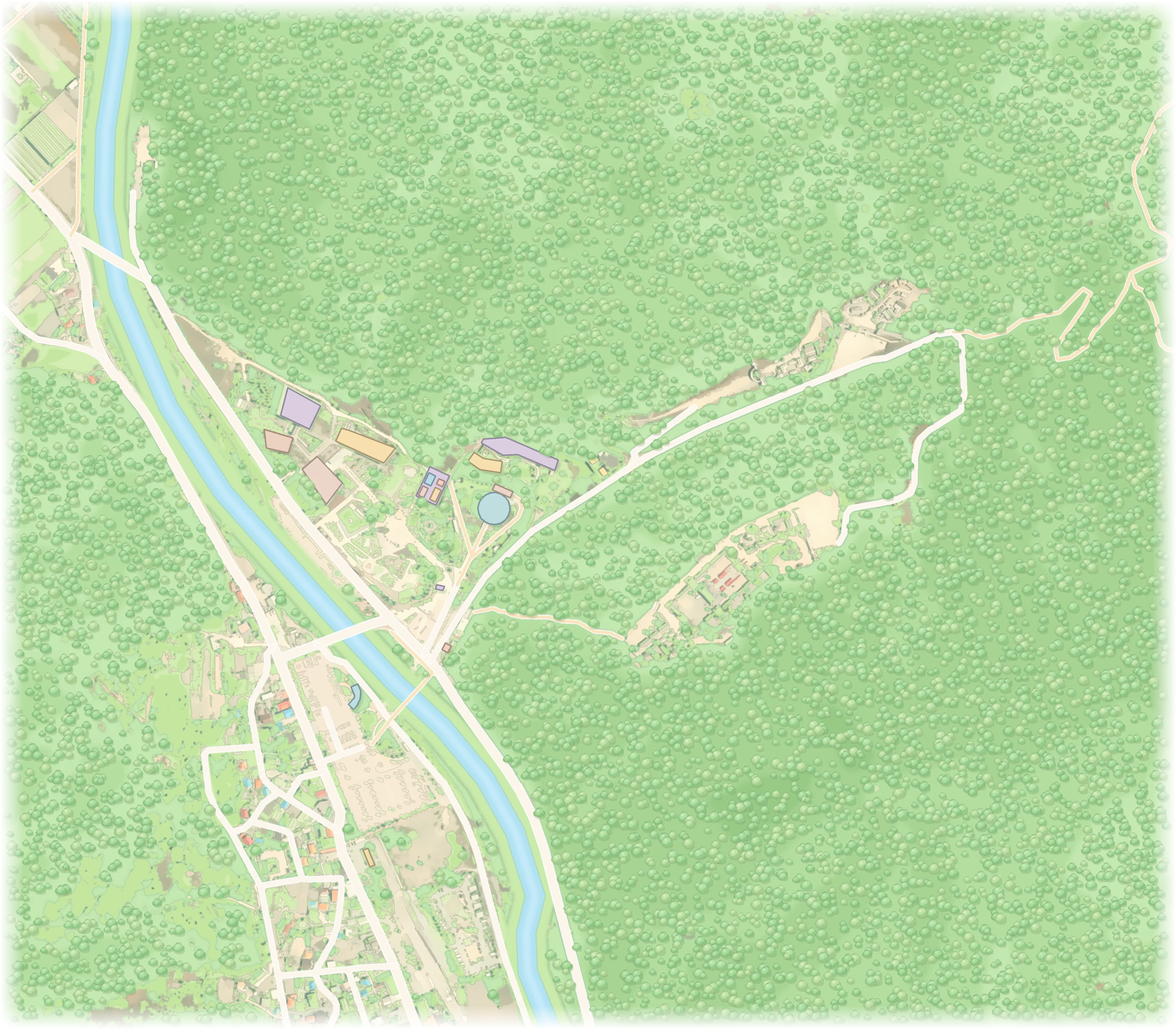
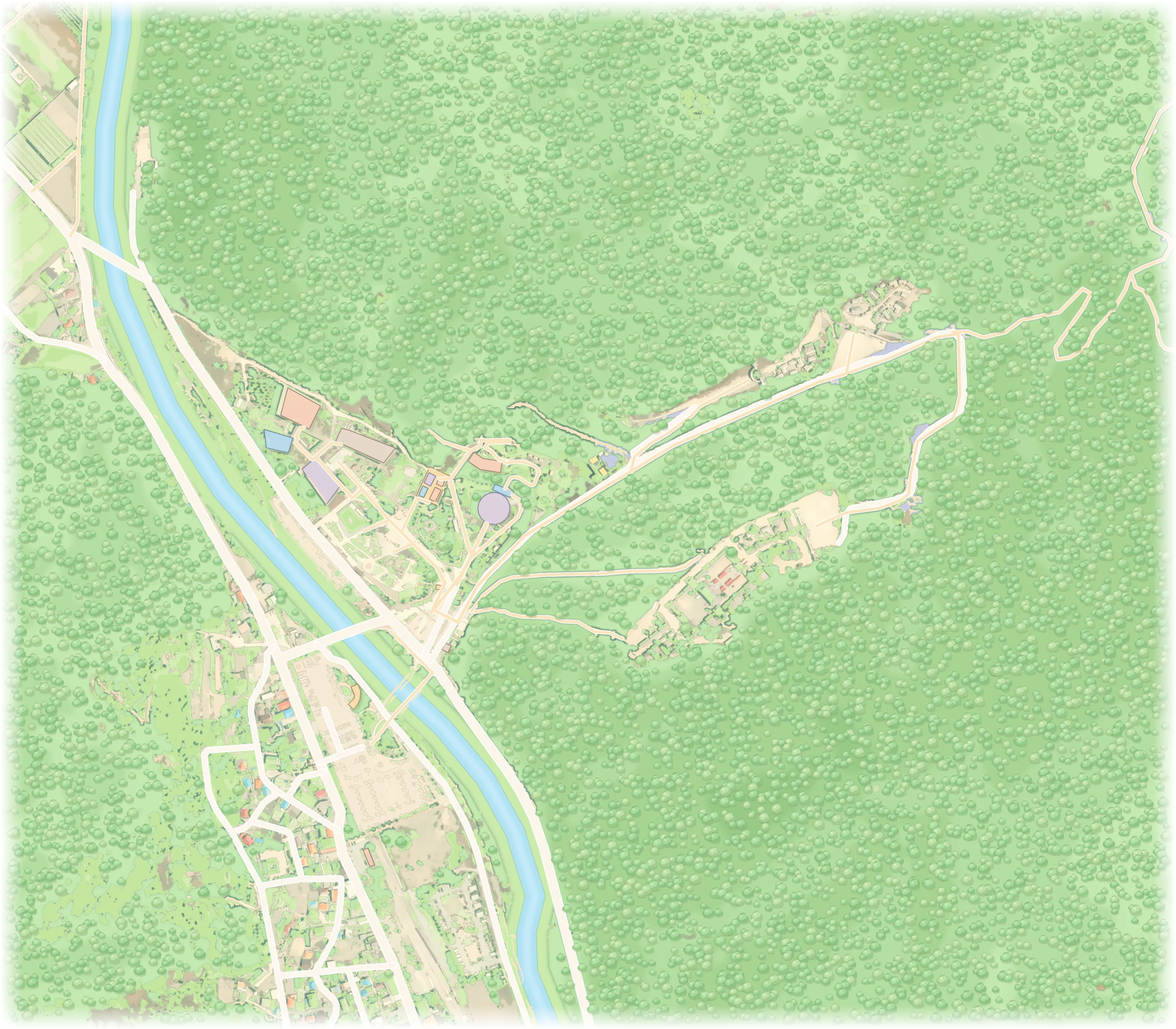
finder-demo: 사라진 산책로 복원, 3D 모델 파스텔화, 확대 선명도 개선
- 참고 동선 17개와 숲 속 샛길을 그림에 추가, 길을 덮던 OSM 윤곽 제거
- 3D 모델 색을 파스텔로, 세트장 지붕을 파스텔 기와로
- 공원 중심부 고해상도 그림을 줌 16.5 이상에서 표시

diff --git a/finder-demo/data/park.js b/finder-demo/data/park.js
@@ -1,1 +1,1 @@
-window.ECO_PARK={"type":"FeatureCollection","features":[{"type":"Feature","properties":{"kind":"building","id":"osm-w561140229-building","name":"탄광촌전시관","model":true,"height":7},"geometry":{"type":"Polygon","coordinates":[[[128.0612892,36.6543622],[128.0610974,36.654033],[128.0613731,36.6539296],[128.0615649,36.6542588],[128.0612892,36.6543622]]]}},{"type":"Feature","properties":{"kind":"building","id":"osm-w561140230-building","name":"미명명 건물 (OSM)","model":true,"height":7},"geometry":{"type":"Polygon","coordinates":[[[128.0612794,36.6542927],[128.0612087,36.6541808],[128.0613003,36.6541436],[128.061371,36.6542555],[128.0612794,36.6542927]]]}},{"type":"Feature","properties":{"kind":"building","id":"osm-w561140231-building","name":"미명명 건물 (OSM)","model":true,"height":7},"geometry":{"type":"Polygon","coordinates":[[[128.061192,36.6541447],[128.0611299,36.6540411],[128.0612026,36.6540131],[128.0612647,36.6541166],[128.061192,36.6541447]]]}},{"type":"Feature","properties":{"kind":"building","id":"osm-w561140232-building","name":"미명명 건물 (OSM)","model":true,"height":7},"geometry":{"type":"Polygon","coordinates":[[[128.0614166,36.6542269],[128.0613814,36.6541669],[128.0614638,36.6541358],[128.061499,36.6541958],[128.0614166,36.6542269]]]}},{"type":"Feature","properties":{"kind":"building","id":"osm-w561140233-building","name":"미명명 건물 (OSM)","model":true,"height":7},"geometry":{"type":"Polygon","coordinates":[[[128.0613647,36.6541294],[128.0612846,36.6539959],[128.0613678,36.6539638],[128.0614479,36.6540973],[128.0613647,36.6541294]]]}},{"type":"Feature","properties":{"kind":"building","id":"osm-w561140235-building","name":"문경석탄박물관 매표소","model":false,"height":7},"geometry":{"type":"Polygon","coordinates":[[[128.0613823,36.6530342],[128.0613696,36.6529861],[128.0614663,36.6529698],[128.0614946,36.6530153],[128.0613823,36.6530342]]]}},{"type":"Feature","properties":{"kind":"building","id":"osm-w561140238-building","name":"문경석탄박물관","model":true,"height":7},"geometry":{"type":"Polygon","coordinates":[[[128.0621433,36.6540683],[128.0620728,36.6540466],[128.0620151,36.6540075],[128.0619768,36.6539552],[128.0619623,36.6538957],[128.0619731,36.6538358],[128.062008,36.653782],[128.0620632,36.6537406],[128.0621323,36.6537161],[128.0622076,36.6537114],[128.0622806,36.6537269],[128.0623409,36.6537593],[128.0623852,36.6538052],[128.062409,36.6538602],[128.0624098,36.6539183],[128.0623875,36.6539736],[128.0623445,36.6540204],[128.0622852,36.6540538],[128.0622157,36.6540703],[128.0621433,36.6540683]]]}},{"type":"Feature","properties":{"kind":"building","id":"osm-w561140239-building","name":"미명명 건물 (OSM)","model":false,"height":7},"geometry":{"type":"Polygon","coordinates":[[[128.062204,36.6541668],[128.0624528,36.6540799],[128.0624169,36.6540137],[128.062168,36.6541006],[128.062204,36.6541668]]]}},{"type":"Feature","properties":{"kind":"building","id":"osm-w561140241-building","name":"미명명 건물 (OSM)","model":false,"height":7},"geometry":{"type":"Polygon","coordinates":[[[128.0649545,36.6533593],[128.0650168,36.6533069],[128.0651198,36.6533859],[128.0650575,36.6534382],[128.0649545,36.6533593]]]}},{"type":"Feature","properties":{"kind":"building","id":"osm-w561140244-building","name":"화장실 (OSM)","model":false,"height":7},"geometry":{"type":"Polygon","coordinates":[[[128.0615065,36.6523793],[128.0614587,36.6523048],[128.0615411,36.6522708],[128.0615889,36.6523453],[128.0615065,36.6523793]]]}},{"type":"Feature","properties":{"kind":"path","id":"osm-w561140245-path","name":"보행로 (OSM)"},"geometry":{"type":"LineString","coordinates":[[128.0620746,36.6537262],[128.0618733,36.6533688],[128.0618491,36.6533258],[128.0616677,36.6530285]]}},{"type":"Feature","properties":{"kind":"path","id":"osm-w561140246-path","name":"보행로 (OSM)"},"geometry":{"type":"LineString","coordinates":[[128.0618733,36.6533688],[128.0615656,36.654187]]}},{"type":"Feature","properties":{"kind":"path","id":"osm-w561140247-path","name":"보행로 (OSM)"},"geometry":{"type":"LineString","coordinates":[[128.0618491,36.6533258],[128.0625276,36.6537936],[128.0625837,36.6539023],[128.0625463,36.6539885],[128.0624436,36.6540409]]}},{"type":"Feature","properties":{"kind":"plaza","id":"osm-w561140250-plaza","name":"주차장 (OSM)"},"geometry":{"type":"Polygon","coordinates":[[[128.061412,36.6528722],[128.061536,36.6528184],[128.0612457,36.6523872],[128.0611216,36.6524409],[128.061412,36.6528722]]]}},{"type":"Feature","properties":{"kind":"plaza","id":"osm-w561140251-plaza","name":"주차장 (OSM)"},"geometry":{"type":"Polygon","coordinates":[[[128.0611636,36.6527397],[128.061245,36.6527681],[128.0610964,36.6524841],[128.0611212,36.6523791],[128.060923,36.6525665],[128.0611636,36.6527397]]]}},{"type":"Feature","properties":{"kind":"plaza","id":"osm-w561140252-plaza","name":"주차장 (OSM)"},"geometry":{"type":"Polygon","coordinates":[[[128.0615801,36.6527639],[128.0616846,36.6527171],[128.0613981,36.6523057],[128.0612936,36.6523525],[128.0615801,36.6527639]]]}},{"type":"Feature","properties":{"kind":"building","id":"osm-w561140253-building","name":"미명명 건물 (OSM)","model":false,"height":7},"geometry":{"type":"Polygon","coordinates":[[[128.0623033,36.6544199],[128.0622784,36.6542934],[128.0619923,36.6543297],[128.0618218,36.654423],[128.0619079,36.6545243],[128.062037,36.6544537],[128.0623033,36.6544199]]]}},{"type":"Feature","properties":{"kind":"building","id":"osm-w561140254-building","name":"미명명 건물 (OSM)","model":false,"height":7},"geometry":{"type":"Polygon","coordinates":[[[128.062037,36.6546722],[128.0620086,36.6546298],[128.0623135,36.6544896],[128.0625208,36.6544961],[128.0630412,36.65432],[128.06309,36.6544341],[128.0623541,36.6546918],[128.062037,36.6546722]]]}},{"type":"Feature","properties":{"kind":"building","id":"osm-w561140258-building","name":"요동성 세트장","model":true,"height":7},"geometry":{"type":"Polygon","coordinates":[[[128.0636806,36.6549984],[128.0640728,36.6549984],[128.0643811,36.6549835],[128.0654271,36.6553806],[128.065754,36.6556204],[128.0659408,36.6556653],[128.0661276,36.6556428],[128.0664078,36.6558152],[128.0667161,36.6562048],[128.0668562,36.6558526],[128.0667908,36.6555379],[128.0666227,36.655418],[128.0662677,36.6553206],[128.0659502,36.6552307],[128.0650255,36.6549535],[128.064241,36.6547212],[128.0637366,36.6548336],[128.0636806,36.6549984]]]}},{"type":"Feature","properties":{"kind":"plaza","id":"osm-w561140262-plaza","name":"주차장 (OSM)"},"geometry":{"type":"Polygon","coordinates":[[[128.059365,36.6521576],[128.059751,36.6522749],[128.0599236,36.6521009],[128.0601288,36.6516866],[128.0603555,36.6512961],[128.0603809,36.6512703],[128.0604748,36.6512918],[128.0605111,36.6512229],[128.0605902,36.6511002],[128.0606773,36.6510637],[128.0608128,36.6510443],[128.0610166,36.6510852],[128.0613787,36.6505956],[128.0603139,36.6502535],[128.059365,36.6521576]]]}},{"type":"Feature","properties":{"kind":"building","id":"osm-w561140268-building","name":"화장실 (OSM)","model":false,"height":7},"geometry":{"type":"Polygon","coordinates":[[[128.06028,36.6519189],[128.0601837,36.6518863],[128.0602318,36.6517945],[128.0602318,36.6517618],[128.0601471,36.6516892],[128.0602194,36.6516349],[128.0602495,36.6516576],[128.0602684,36.651677],[128.0603132,36.6517488],[128.0603213,36.6518401],[128.06028,36.6519189]]]}},{"type":"Feature","properties":{"kind":"path","id":"osm-w561140271-path","name":"보행로 (OSM)"},"geometry":{"type":"LineString","coordinates":[[128.0612261,36.6519492],[128.0607902,36.6515684]]}},{"type":"Feature","properties":{"kind":"path","id":"osm-w561140273-path","name":"보행로 (OSM)"},"geometry":{"type":"LineString","coordinates":[[128.0612261,36.6519492],[128.0613259,36.6520429],[128.061169,36.652172],[128.0607426,36.6525077]]}},{"type":"Feature","properties":{"kind":"path","id":"osm-w561140275-path","name":"보행로 (OSM)"},"geometry":{"type":"LineString","coordinates":[[128.060477,36.6512445],[128.0606393,36.6514092]]}},{"type":"Feature","properties":{"kind":"path","id":"osm-w561140276-path","name":"보행로 (OSM)"},"geometry":{"type":"LineString","coordinates":[[128.0606393,36.6514092],[128.0607289,36.6515084],[128.0607902,36.6515684]]}},{"type":"Feature","properties":{"kind":"building","id":"osm-w1545943901-building","name":"미명명 건물 (OSM)","model":true,"height":7},"geometry":{"type":"Polygon","coordinates":[[[128.0597091,36.6544765],[128.0600618,36.6541774],[128.0598392,36.6539396],[128.0594985,36.6543323],[128.0597091,36.6544765]]]}},{"type":"Feature","properties":{"kind":"building","id":"osm-w1545943902-building","name":"미명명 건물 (OSM)","model":true,"height":7},"geometry":{"type":"Polygon","coordinates":[[[128.0589688,36.6547799],[128.0593698,36.6546841],[128.0593054,36.6545174],[128.0589969,36.6545723],[128.0589688,36.6547799]]]}},{"type":"Feature","properties":{"kind":"building","id":"osm-w1545943903-building","name":"미명명 건물 (OSM)","model":true,"height":7},"geometry":{"type":"Polygon","coordinates":[[[128.0600524,36.6547928],[128.060165,36.6547691],[128.0608061,36.6545712],[128.0606425,36.6544033],[128.0599692,36.6546486],[128.0600524,36.6547928]]]}},{"type":"Feature","properties":{"kind":"building","id":"osm-w1545943904-building","name":"미명명 건물 (OSM)","model":true,"height":7},"geometry":{"type":"Polygon","coordinates":[[[128.0592987,36.655249],[128.0597573,36.6550446],[128.0595991,36.6547842],[128.0591994,36.6549391],[128.0592987,36.655249]]]}},{"type":"Feature","properties":{"kind":"plaza","id":"osm-w1545943905-plaza","name":"주차장 (OSM)"},"geometry":{"type":"Polygon","coordinates":[[[128.0591565,36.6540375],[128.0590546,36.6539719],[128.0592035,36.6537062],[128.0593751,36.6535179],[128.0600055,36.6529487],[128.0601114,36.652868],[128.0601798,36.6528476],[128.060334,36.6529627],[128.0596554,36.6535469],[128.059524,36.6536577],[128.0591981,36.6540278],[128.0591565,36.6540375]]]}}]};
+window.ECO_PARK={"type":"FeatureCollection","features":[{"type":"Feature","properties":{"kind":"building","id":"osm-w561140229-building","name":"탄광촌전시관","model":true,"height":7},"geometry":{"type":"Polygon","coordinates":[[[128.0612892,36.6543622],[128.0610974,36.654033],[128.0613731,36.6539296],[128.0615649,36.6542588],[128.0612892,36.6543622]]]}},{"type":"Feature","properties":{"kind":"building","id":"osm-w561140230-building","name":"미명명 건물 (OSM)","model":true,"height":7},"geometry":{"type":"Polygon","coordinates":[[[128.0612794,36.6542927],[128.0612087,36.6541808],[128.0613003,36.6541436],[128.061371,36.6542555],[128.0612794,36.6542927]]]}},{"type":"Feature","properties":{"kind":"building","id":"osm-w561140231-building","name":"미명명 건물 (OSM)","model":true,"height":7},"geometry":{"type":"Polygon","coordinates":[[[128.061192,36.6541447],[128.0611299,36.6540411],[128.0612026,36.6540131],[128.0612647,36.6541166],[128.061192,36.6541447]]]}},{"type":"Feature","properties":{"kind":"building","id":"osm-w561140232-building","name":"미명명 건물 (OSM)","model":true,"height":7},"geometry":{"type":"Polygon","coordinates":[[[128.0614166,36.6542269],[128.0613814,36.6541669],[128.0614638,36.6541358],[128.061499,36.6541958],[128.0614166,36.6542269]]]}},{"type":"Feature","properties":{"kind":"building","id":"osm-w561140233-building","name":"미명명 건물 (OSM)","model":true,"height":7},"geometry":{"type":"Polygon","coordinates":[[[128.0613647,36.6541294],[128.0612846,36.6539959],[128.0613678,36.6539638],[128.0614479,36.6540973],[128.0613647,36.6541294]]]}},{"type":"Feature","properties":{"kind":"building","id":"osm-w561140235-building","name":"문경석탄박물관 매표소","model":false,"height":7},"geometry":{"type":"Polygon","coordinates":[[[128.0613823,36.6530342],[128.0613696,36.6529861],[128.0614663,36.6529698],[128.0614946,36.6530153],[128.0613823,36.6530342]]]}},{"type":"Feature","properties":{"kind":"building","id":"osm-w561140238-building","name":"문경석탄박물관","model":true,"height":7},"geometry":{"type":"Polygon","coordinates":[[[128.0621433,36.6540683],[128.0620728,36.6540466],[128.0620151,36.6540075],[128.0619768,36.6539552],[128.0619623,36.6538957],[128.0619731,36.6538358],[128.062008,36.653782],[128.0620632,36.6537406],[128.0621323,36.6537161],[128.0622076,36.6537114],[128.0622806,36.6537269],[128.0623409,36.6537593],[128.0623852,36.6538052],[128.062409,36.6538602],[128.0624098,36.6539183],[128.0623875,36.6539736],[128.0623445,36.6540204],[128.0622852,36.6540538],[128.0622157,36.6540703],[128.0621433,36.6540683]]]}},{"type":"Feature","properties":{"kind":"building","id":"osm-w561140239-building","name":"미명명 건물 (OSM)","model":false,"height":7},"geometry":{"type":"Polygon","coordinates":[[[128.062204,36.6541668],[128.0624528,36.6540799],[128.0624169,36.6540137],[128.062168,36.6541006],[128.062204,36.6541668]]]}},{"type":"Feature","properties":{"kind":"building","id":"osm-w561140241-building","name":"미명명 건물 (OSM)","model":false,"height":7},"geometry":{"type":"Polygon","coordinates":[[[128.0649545,36.6533593],[128.0650168,36.6533069],[128.0651198,36.6533859],[128.0650575,36.6534382],[128.0649545,36.6533593]]]}},{"type":"Feature","properties":{"kind":"building","id":"osm-w561140244-building","name":"화장실 (OSM)","model":false,"height":7},"geometry":{"type":"Polygon","coordinates":[[[128.0615065,36.6523793],[128.0614587,36.6523048],[128.0615411,36.6522708],[128.0615889,36.6523453],[128.0615065,36.6523793]]]}},{"type":"Feature","properties":{"kind":"path","id":"osm-w561140245-path","name":"보행로 (OSM)"},"geometry":{"type":"LineString","coordinates":[[128.0620746,36.6537262],[128.0618733,36.6533688],[128.0618491,36.6533258],[128.0616677,36.6530285]]}},{"type":"Feature","properties":{"kind":"path","id":"osm-w561140246-path","name":"보행로 (OSM)"},"geometry":{"type":"LineString","coordinates":[[128.0618733,36.6533688],[128.0615656,36.654187]]}},{"type":"Feature","properties":{"kind":"path","id":"osm-w561140247-path","name":"보행로 (OSM)"},"geometry":{"type":"LineString","coordinates":[[128.0618491,36.6533258],[128.0625276,36.6537936],[128.0625837,36.6539023],[128.0625463,36.6539885],[128.0624436,36.6540409]]}},{"type":"Feature","properties":{"kind":"plaza","id":"osm-w561140250-plaza","name":"주차장 (OSM)"},"geometry":{"type":"Polygon","coordinates":[[[128.061412,36.6528722],[128.061536,36.6528184],[128.0612457,36.6523872],[128.0611216,36.6524409],[128.061412,36.6528722]]]}},{"type":"Feature","properties":{"kind":"plaza","id":"osm-w561140251-plaza","name":"주차장 (OSM)"},"geometry":{"type":"Polygon","coordinates":[[[128.0611636,36.6527397],[128.061245,36.6527681],[128.0610964,36.6524841],[128.0611212,36.6523791],[128.060923,36.6525665],[128.0611636,36.6527397]]]}},{"type":"Feature","properties":{"kind":"plaza","id":"osm-w561140252-plaza","name":"주차장 (OSM)"},"geometry":{"type":"Polygon","coordinates":[[[128.0615801,36.6527639],[128.0616846,36.6527171],[128.0613981,36.6523057],[128.0612936,36.6523525],[128.0615801,36.6527639]]]}},{"type":"Feature","properties":{"kind":"building","id":"osm-w561140253-building","name":"미명명 건물 (OSM)","model":false,"height":7},"geometry":{"type":"Polygon","coordinates":[[[128.0623033,36.6544199],[128.0622784,36.6542934],[128.0619923,36.6543297],[128.0618218,36.654423],[128.0619079,36.6545243],[128.062037,36.6544537],[128.0623033,36.6544199]]]}},{"type":"Feature","properties":{"kind":"building","id":"osm-w561140258-building","name":"요동성 세트장","model":true,"height":7},"geometry":{"type":"Polygon","coordinates":[[[128.0636806,36.6549984],[128.0640728,36.6549984],[128.0643811,36.6549835],[128.0654271,36.6553806],[128.065754,36.6556204],[128.0659408,36.6556653],[128.0661276,36.6556428],[128.0664078,36.6558152],[128.0667161,36.6562048],[128.0668562,36.6558526],[128.0667908,36.6555379],[128.0666227,36.655418],[128.0662677,36.6553206],[128.0659502,36.6552307],[128.0650255,36.6549535],[128.064241,36.6547212],[128.0637366,36.6548336],[128.0636806,36.6549984]]]}},{"type":"Feature","properties":{"kind":"plaza","id":"osm-w561140262-plaza","name":"주차장 (OSM)"},"geometry":{"type":"Polygon","coordinates":[[[128.059365,36.6521576],[128.059751,36.6522749],[128.0599236,36.6521009],[128.0601288,36.6516866],[128.0603555,36.6512961],[128.0603809,36.6512703],[128.0604748,36.6512918],[128.0605111,36.6512229],[128.0605902,36.6511002],[128.0606773,36.6510637],[128.0608128,36.6510443],[128.0610166,36.6510852],[128.0613787,36.6505956],[128.0603139,36.6502535],[128.059365,36.6521576]]]}},{"type":"Feature","properties":{"kind":"building","id":"osm-w561140268-building","name":"화장실 (OSM)","model":false,"height":7},"geometry":{"type":"Polygon","coordinates":[[[128.06028,36.6519189],[128.0601837,36.6518863],[128.0602318,36.6517945],[128.0602318,36.6517618],[128.0601471,36.6516892],[128.0602194,36.6516349],[128.0602495,36.6516576],[128.0602684,36.651677],[128.0603132,36.6517488],[128.0603213,36.6518401],[128.06028,36.6519189]]]}},{"type":"Feature","properties":{"kind":"path","id":"osm-w561140271-path","name":"보행로 (OSM)"},"geometry":{"type":"LineString","coordinates":[[128.0612261,36.6519492],[128.0607902,36.6515684]]}},{"type":"Feature","properties":{"kind":"path","id":"osm-w561140273-path","name":"보행로 (OSM)"},"geometry":{"type":"LineString","coordinates":[[128.0612261,36.6519492],[128.0613259,36.6520429],[128.061169,36.652172],[128.0607426,36.6525077]]}},{"type":"Feature","properties":{"kind":"path","id":"osm-w561140275-path","name":"보행로 (OSM)"},"geometry":{"type":"LineString","coordinates":[[128.060477,36.6512445],[128.0606393,36.6514092]]}},{"type":"Feature","properties":{"kind":"path","id":"osm-w561140276-path","name":"보행로 (OSM)"},"geometry":{"type":"LineString","coordinates":[[128.0606393,36.6514092],[128.0607289,36.6515084],[128.0607902,36.6515684]]}},{"type":"Feature","properties":{"kind":"building","id":"osm-w1545943901-building","name":"미명명 건물 (OSM)","model":true,"height":7},"geometry":{"type":"Polygon","coordinates":[[[128.0597091,36.6544765],[128.0600618,36.6541774],[128.0598392,36.6539396],[128.0594985,36.6543323],[128.0597091,36.6544765]]]}},{"type":"Feature","properties":{"kind":"building","id":"osm-w1545943902-building","name":"미명명 건물 (OSM)","model":true,"height":7},"geometry":{"type":"Polygon","coordinates":[[[128.0589688,36.6547799],[128.0593698,36.6546841],[128.0593054,36.6545174],[128.0589969,36.6545723],[128.0589688,36.6547799]]]}},{"type":"Feature","properties":{"kind":"building","id":"osm-w1545943903-building","name":"미명명 건물 (OSM)","model":true,"height":7},"geometry":{"type":"Polygon","coordinates":[[[128.0600524,36.6547928],[128.060165,36.6547691],[128.0608061,36.6545712],[128.0606425,36.6544033],[128.0599692,36.6546486],[128.0600524,36.6547928]]]}},{"type":"Feature","properties":{"kind":"building","id":"osm-w1545943904-building","name":"미명명 건물 (OSM)","model":true,"height":7},"geometry":{"type":"Polygon","coordinates":[[[128.0592987,36.655249],[128.0597573,36.6550446],[128.0595991,36.6547842],[128.0591994,36.6549391],[128.0592987,36.655249]]]}},{"type":"Feature","properties":{"kind":"plaza","id":"osm-w1545943905-plaza","name":"주차장 (OSM)"},"geometry":{"type":"Polygon","coordinates":[[[128.0591565,36.6540375],[128.0590546,36.6539719],[128.0592035,36.6537062],[128.0593751,36.6535179],[128.0600055,36.6529487],[128.0601114,36.652868],[128.0601798,36.6528476],[128.060334,36.6529627],[128.0596554,36.6535469],[128.059524,36.6536577],[128.0591981,36.6540278],[128.0591565,36.6540375]]]}},{"type":"Feature","properties":{"kind":"reference","id":"user-kml-c5a48638017d","name":"정문에서 석탄박물관까지 경로"},"geometry":{"type":"LineString","coordinates":[[128.0613069975602,36.65271200054841],[128.0617437349931,36.65315838166777],[128.0620939540503,36.65371644553639]]}},{"type":"Feature","properties":{"kind":"reference","id":"user-kml-ad5d99c331d6","name":"정문에서 자이언트포레스트까지 경로"},"geometry":{"type":"LineString","coordinates":[[128.0613097045317,36.65271631770625],[128.0615036390608,36.65305321983555],[128.0613903260595,36.65322408383953],[128.0610555820342,36.6534946486095],[128.0607880049759,36.65340530041028]]}},{"type":"Feature","properties":{"kind":"reference","id":"user-kml-cd5e12f02b27","name":"정문에서 가은모노레일까지 경로"},"geometry":{"type":"LineString","coordinates":[[128.0613053650932,36.65271290566636],[128.0613391418609,36.65274838307553],[128.0617004328103,36.65260515086588]]}},{"type":"Feature","properties":{"kind":"reference","id":"user-kml-8fec4d8aad57","name":"정문에서 물놀이장까지 경로"},"geometry":{"type":"LineString","coordinates":[[128.0613053356307,36.65271343067711],[128.0615064796385,36.6530533280139],[128.0613928253266,36.65322289202869],[128.0607196931964,36.65376389110645],[128.0603619060369,36.65363405457296]]}},{"type":"Feature","properties":{"kind":"reference","id":"user-kml-480041a48fda","name":"정문에서부터 꼬마열차까지 경로"},"geometry":{"type":"LineString","coordinates":[[128.0613061373457,36.65271561860902],[128.0617417392131,36.65315833968197],[128.0618825175052,36.65338159029326],[128.0618335700105,36.65343251984909],[128.0617014679784,36.6538680362846]]}},{"type":"Feature","properties":{"kind":"reference","id":"user-kml-e88fcdbdeea8","name":"정문에서 에코타운 정문까지 경로"},"geometry":{"type":"LineString","coordinates":[[128.0613075572736,36.65271501035764],[128.0614983940029,36.65304848706475],[128.0613940040614,36.6532166732535],[128.0607309599272,36.65375281083887],[128.0600041051205,36.65441895158046]]}},{"type":"Feature","properties":{"kind":"reference","id":"user-kml-78b229d54c04","name":"정문에서 탄광사택촌까지 경로"},"geometry":{"type":"LineString","coordinates":[[128.0613073036247,36.65271601255684],[128.0615024237725,36.6530559953496],[128.0613933526841,36.65321929552861],[128.0608918742452,36.65362566822176],[128.0611104335096,36.65400339529846],[128.0612723313493,36.6539584608669]]}},{"type":"Feature","properties":{"kind":"reference","id":"user-kml-f3c2e03675ac","name":"정문에서 은성갱도까지 경로"},"geometry":{"type":"LineString","coordinates":[[128.0613063940121,36.65271401804888],[128.0617375087997,36.65315658690736],[128.0618838680246,36.65338107401141],[128.0618331638012,36.65343553965133],[128.0615821418209,36.65422440080437],[128.0618587503187,36.65453977185391],[128.0619998467537,36.65458903961572],[128.0620039414326,36.65466022335332]]}},{"type":"Feature","properties":{"kind":"reference","id":"user-kml-2e848bb595be","name":"석탄박물관 2층 후문에서 거미열차까지 경로"},"geometry":{"type":"LineString","coordinates":[[128.0623434142403,36.65411725829457],[128.0624130572717,36.6542265438515],[128.0624739901415,36.6542460800266],[128.0625468073159,36.6542322374115],[128.0626718200835,36.65415935649668],[128.0627246053059,36.65414874013646],[128.0627540167492,36.65416463521242],[128.0628123144837,36.65428073969261],[128.0628043092576,36.65433024199809],[128.0627759110113,36.65435857646412],[128.0626476421615,36.65440334589657],[128.0625696451309,36.65441795509413],[128.0624936422155,36.65441886483607],[128.0623658561906,36.65439902010837]]}},{"type":"Feature","properties":{"kind":"reference","id":"user-kml-0342967e47b4","name":"거미열차에서 은성갱도까지 경로"},"geometry":{"type":"LineString","coordinates":[[128.0623370967459,36.65441832886382],[128.0622568756618,36.65444094274741],[128.0621660208894,36.65452582580897],[128.0620622639964,36.65457924787651],[128.0621076608141,36.65463256458022],[128.062398469627,36.65463788633738],[128.062401529399,36.6546602320247],[128.0620104013695,36.65465700292918]]}},{"type":"Feature","properties":{"kind":"reference","id":"user-kml-25b262944a34","name":"정문에서 서바이벌체험장까지 경로"},"geometry":{"type":"LineString","coordinates":[[128.0613059421975,36.65271382908406],[128.0615022899995,36.65305573123813],[128.0613937386835,36.65321514109914],[128.0607165568087,36.65376526532217],[128.0603366347188,36.65410567455422],[128.0602010620984,36.65400575141843],[128.0596916452103,36.65446926946388],[128.0599178378423,36.65462898762055],[128.0600478494415,36.65461036887372]]}},{"type":"Feature","properties":{"kind":"reference","id":"user-kml-295d9bc8671e","name":"정문에서 에코카페 입구까지 경로"},"geometry":{"type":"LineString","coordinates":[[128.0613081566132,36.65271435388266],[128.061507529879,36.65305389545892],[128.0613967970921,36.65322267063234],[128.0607189144313,36.65376289765712],[128.0603393586052,36.65410687693671],[128.0602042371331,36.65400751943232],[128.0596942443318,36.65446621269537],[128.0596431582336,36.65444173933095],[128.0594063824311,36.65462690109451],[128.0594363971674,36.65468937865485],[128.0594176605438,36.65470228190476],[128.0594747168214,36.65479636687067],[128.0595266882995,36.65479827001971]]}},{"type":"Feature","properties":{"kind":"reference","id":"user-kml-41c17b9f1336","name":"정문에서 1세트장까지 탐방로 경로"},"geometry":{"type":"LineString","coordinates":[[128.0613103855893,36.65271699668666],[128.0613434825179,36.65274892680675],[128.0616862590642,36.6526148008864],[128.0619596571384,36.65302265129809],[128.0626187010125,36.65358405265223],[128.0647041702292,36.65459929271925],[128.0667246026764,36.65530802233236],[128.0670462023716,36.65538501615524],[128.0677281296096,36.65558060855586],[128.0684080105227,36.65581880883393],[128.0686962374131,36.65585442886015],[128.068717467127,36.65516506296649],[128.0686718802485,36.65500752647627],[128.0686218976618,36.65491196222984],[128.0681246401977,36.65464616765659],[128.0680321475877,36.65428908942335],[128.067999303052,36.65405477104764],[128.0678932795151,36.65398665576718],[128.0675941128939,36.65389472265549],[128.0671113999795,36.65384067667507],[128.0667145204622,36.65369596354896]]}},{"type":"Feature","properties":{"kind":"reference","id":"user-kml-8f86f5cf34bf","name":"은성갱도 출구에서 탄광사택촌까지 경로"},"geometry":{"type":"LineString","coordinates":[[128.0612702354487,36.65476628153346],[128.0614755230096,36.65464034211439],[128.0618613119356,36.65453823664198],[128.0615851553476,36.65422602460255],[128.0614232236401,36.65422577681056]]}},{"type":"Feature","properties":{"kind":"reference","id":"user-kml-39921fe027dc","name":"정문에서 2세트장까지 탐방로 경로 1"},"geometry":{"type":"LineString","coordinates":[[128.0613104377374,36.65271556860841],[128.0613435430332,36.65275068742272],[128.0616834638147,36.65261013506046],[128.0619580451399,36.65302584592438],[128.0626180743933,36.65358302575628],[128.064105244776,36.65430973158382],[128.0641600718295,36.65447441825026],[128.0643790629862,36.65462112872602],[128.0646189963719,36.65473172998109],[128.0649516792932,36.6549314563897],[128.0650752704407,36.65503898181483],[128.0657562266237,36.65533607761377]]}},{"type":"Feature","properties":{"kind":"reference","id":"user-kml-b26c559392bf","name":"모노레일 이동 경로"},"geometry":{"type":"LineString","coordinates":[[128.0618747475498,36.65273470913657],[128.0620367604397,36.65291713027229],[128.0622769556406,36.65307115159318],[128.0624417542049,36.65311620082189],[128.0628685102921,36.65314451818524],[128.0637085496602,36.65316000248519],[128.0640874826149,36.65318510513076],[128.0644377725749,36.65318979097109],[128.0647156625482,36.65319934496467],[128.0648642088659,36.65323078653236],[128.0650627504354,36.65334603444486]]}},{"type":"Feature","properties":{"kind":"reference","id":"user-kml-e3396fc0361e","name":"정문에서 2세트장까지 탐방로 경로 2"},"geometry":{"type":"LineString","coordinates":[[128.0613111700707,36.65271746404822],[128.0613411804829,36.65275127063325],[128.0616760554289,36.65261159774525],[128.0619604400347,36.6530190138426],[128.0626203528451,36.65358709075828],[128.0647044357791,36.65459914655245],[128.0667230565386,36.65530853676359],[128.0671286255956,36.6554071870307],[128.0672299946414,36.65584479707672]]}}]};

diff --git a/finder-demo/data/facilities.js b/finder-demo/data/facilities.js
@@ -1,1 +1,1 @@
-window.ECO_FACILITIES={"version":1,"source":"ecoworld-visitor-v7-3 (KML 원본 + 항공사진 정렬 보정, 현장 확인 필요)","generatedAt":"2026-11-01T06:41:38.763Z","center":[128.0618,36.6537],"categories":[{"id":"experience","label":"체험/탑승"},{"id":"exhibition","label":"전시/박물관"},{"id":"amenity","label":"편의시설/식당"},{"id":"safety","label":"안전/의무실"}],"facilities":[{"facilMappCd":"user-kml-36151912a2e8","name":"자이언트포레스트","category":"experience","tags":[],"icon":"info","description":"","lng":128.060757816,"lat":36.653114396,"photo":null,"status":"unknown","hours":"","waitMinutes":null,"checkedAt":null},{"facilMappCd":"user-kml-540fcca76639","name":"에코타운","category":"experience","tags":[],"icon":"info","description":"","lng":128.0597112322403,"lat":36.65461218337404,"photo":"photos/eco.jpg","status":"unknown","hours":"","waitMinutes":null,"checkedAt":null},{"facilMappCd":"user-kml-ada57d5b3aa8","name":"물놀이장","category":"experience","tags":[],"icon":"info","description":"","lng":128.060178459,"lat":36.65376425,"photo":null,"status":"unknown","hours":"","waitMinutes":null,"checkedAt":null},{"facilMappCd":"user-kml-798122eac9b9","name":"1세트장","category":"exhibition","tags":[],"icon":"info","description":"","lng":128.0651058036894,"lat":36.65332977540214,"photo":null,"status":"unknown","hours":"","waitMinutes":null,"checkedAt":null},{"facilMappCd":"user-kml-dec151519e6e","name":"꼬마열차","category":"experience","tags":[],"icon":"info","description":"","lng":128.0614409418579,"lat":36.65371839861816,"photo":null,"status":"unknown","hours":"","waitMinutes":null,"checkedAt":null},{"facilMappCd":"user-kml-d523453e98d2","name":"매표소","category":"amenity","tags":[],"icon":"info","description":"","lng":128.061339855,"lat":36.652666812,"photo":"photos/gate.jpg","status":"unknown","hours":"","waitMinutes":null,"checkedAt":null},{"facilMappCd":"user-kml-403a895ea92f","name":"가은모노레일","category":"experience","tags":[],"icon":"info","description":"","lng":128.0617512555226,"lat":36.65257312774869,"photo":null,"status":"unknown","hours":"","waitMinutes":null,"checkedAt":null},{"facilMappCd":"user-kml-d0fe5b8e8a77","name":"3세트장","category":"exhibition","tags":[],"icon":"info","description":"","lng":128.0663896754587,"lat":36.65550200289552,"photo":null,"status":"unknown","hours":"","waitMinutes":null,"checkedAt":null},{"facilMappCd":"user-kml-9cad01521fb8","name":"2세트장","category":"exhibition","tags":[],"icon":"info","description":"","lng":128.0675809920718,"lat":36.65611779266166,"photo":null,"status":"unknown","hours":"","waitMinutes":null,"checkedAt":null},{"facilMappCd":"user-kml-5d9f5429a19b","name":"거미열차","category":"experience","tags":[],"icon":"info","description":"","lng":128.0623648338047,"lat":36.65439432141314,"photo":null,"status":"unknown","hours":"","waitMinutes":null,"checkedAt":null},{"facilMappCd":"user-kml-51f5c900e686","name":"은성갱도 입구","category":"exhibition","tags":[],"icon":"info","description":"","lng":128.0620041880394,"lat":36.65465561334202,"photo":null,"status":"unknown","hours":"","waitMinutes":null,"checkedAt":null},{"facilMappCd":"user-kml-595aa6c82685","name":"문경석탄박물관","category":"exhibition","tags":[],"icon":"info","description":"","lng":128.0621942375294,"lat":36.65389074455849,"photo":"photos/museum.jpg","status":"unknown","hours":"","waitMinutes":null,"checkedAt":null},{"facilMappCd":"user-kml-fa6b8b565472","name":"에코타운 정문","category":"experience","tags":[],"icon":"info","description":"","lng":128.0599848864423,"lat":36.6544278797995,"photo":"photos/eco.jpg","status":"unknown","hours":"","waitMinutes":null,"checkedAt":null},{"facilMappCd":"user-kml-178f7c986a33","name":"에코카페 입구","category":"amenity","tags":["food"],"icon":"cafe","description":"","lng":128.0595224104233,"lat":36.65479706843798,"photo":null,"status":"unknown","hours":"","waitMinutes":null,"checkedAt":null},{"facilMappCd":"user-kml-098e71f832dd","name":"서바이벌체험장 입구","category":"experience","tags":[],"icon":"info","description":"","lng":128.0600450425438,"lat":36.65460585294915,"photo":null,"status":"unknown","hours":"","waitMinutes":null,"checkedAt":null},{"facilMappCd":"user-kml-1b5c60f82717","name":"탄광사택촌","category":"exhibition","tags":[],"icon":"info","description":"","lng":128.0613470629999,"lat":36.6540842541685,"photo":null,"status":"unknown","hours":"","waitMinutes":null,"checkedAt":null},{"facilMappCd":"user-kml-6e6cb1fed873","name":"수유실 · 석탄박물관","category":"amenity","tags":["nursing"],"icon":"nursing","description":"석탄박물관 로비 좌측에 위치하였습니다.","lng":128.0620749788497,"lat":36.6538624109573,"photo":"photos/museum.jpg","status":"unknown","hours":"","waitMinutes":null,"checkedAt":null},{"facilMappCd":"user-kml-0989fe6eb3f5","name":"수유실 · 에코타운","category":"amenity","tags":["nursing"],"icon":"nursing","description":"에코타운 로비에서 우측에 위치하고 있습니다.","lng":128.0598245331995,"lat":36.65472424871171,"photo":"photos/eco.jpg","status":"unknown","hours":"","waitMinutes":null,"checkedAt":null},{"facilMappCd":"user-kml-30dffae8c90d","name":"의무실","category":"safety","tags":[],"icon":"medical","description":"","lng":128.0598863180421,"lat":36.65354083751411,"photo":null,"status":"unknown","hours":"","waitMinutes":null,"checkedAt":null},{"facilMappCd":"user-kml-df9c8de9a37a","name":"화장실 1","category":"amenity","tags":["toilet"],"icon":"toilet","description":"","lng":128.0600715415836,"lat":36.65339124358076,"photo":null,"status":"unknown","hours":"","waitMinutes":null,"checkedAt":null},{"facilMappCd":"user-kml-55391809416e","name":"화장실 2","category":"amenity","tags":["toilet"],"icon":"toilet","description":"","lng":128.0615306031679,"lat":36.65228335482698,"photo":null,"status":"unknown","hours":"","waitMinutes":null,"checkedAt":null},{"facilMappCd":"user-kml-c1bcd1d4e831","name":"화장실 3","category":"amenity","tags":["toilet"],"icon":"toilet","description":"","lng":128.067162203233,"lat":36.65533446479465,"photo":null,"status":"unknown","hours":"","waitMinutes":null,"checkedAt":null},{"facilMappCd":"user-kml-8033748900e3","name":"화장실 4","category":"amenity","tags":["toilet"],"icon":"toilet","description":"","lng":128.0642364376776,"lat":36.65208208800899,"photo":null,"status":"unknown","hours":"","waitMinutes":null,"checkedAt":null},{"facilMappCd":"user-kml-4de8e1f19a1d","name":"화장실 5","category":"amenity","tags":["toilet"],"icon":"toilet","description":"","lng":128.0664117465305,"lat":36.65311640905166,"photo":null,"status":"unknown","hours":"","waitMinutes":null,"checkedAt":null},{"facilMappCd":"user-kml-dc2b8a2de74a","name":"은성갱도 출구","category":"exhibition","tags":[],"icon":"info","description":"","lng":128.0612702355016,"lat":36.65476628157572,"photo":null,"status":"unknown","hours":"","waitMinutes":null,"checkedAt":null},{"facilMappCd":"user-kml-e455d21352f8","name":"에코월드 야외주차장 1","category":"amenity","tags":["parking"],"icon":"parking","description":"","lng":128.0601764217287,"lat":36.6512397530704,"photo":null,"status":"unknown","hours":"","waitMinutes":null,"checkedAt":null},{"facilMappCd":"user-kml-8312a3471dd2","name":"에코월드 야외주차장 2","category":"amenity","tags":["parking"],"icon":"parking","description":"","lng":128.0595613047621,"lat":36.65343680014664,"photo":null,"status":"unknown","hours":"","waitMinutes":null,"checkedAt":null},{"facilMappCd":"user-kml-7e3590486010","name":"정문","category":"amenity","tags":[],"icon":"info","description":"","lng":128.061304516154,"lat":36.65271266091241,"photo":"photos/gate.jpg","status":"unknown","hours":"","waitMinutes":null,"checkedAt":null}]};
+window.ECO_FACILITIES={"version":1,"source":"ecoworld-visitor-v7-3 (KML 원본 + 항공사진 정렬 보정, 현장 확인 필요)","generatedAt":"2026-11-01T08:04:54.827Z","center":[128.0618,36.6537],"categories":[{"id":"experience","label":"체험/탑승"},{"id":"exhibition","label":"전시/박물관"},{"id":"amenity","label":"편의시설/식당"},{"id":"safety","label":"안전/의무실"}],"facilities":[{"facilMappCd":"user-kml-36151912a2e8","name":"자이언트포레스트","category":"experience","tags":[],"icon":"info","description":"","lng":128.060757816,"lat":36.653114396,"photo":null,"status":"unknown","hours":"","waitMinutes":null,"checkedAt":null},{"facilMappCd":"user-kml-540fcca76639","name":"에코타운","category":"experience","tags":[],"icon":"info","description":"","lng":128.0597112322403,"lat":36.65461218337404,"photo":"photos/eco.jpg","status":"unknown","hours":"","waitMinutes":null,"checkedAt":null},{"facilMappCd":"user-kml-ada57d5b3aa8","name":"물놀이장","category":"experience","tags":[],"icon":"info","description":"","lng":128.060178459,"lat":36.65376425,"photo":null,"status":"unknown","hours":"","waitMinutes":null,"checkedAt":null},{"facilMappCd":"user-kml-798122eac9b9","name":"1세트장","category":"exhibition","tags":[],"icon":"info","description":"","lng":128.0651058036894,"lat":36.65332977540214,"photo":null,"status":"unknown","hours":"","waitMinutes":null,"checkedAt":null},{"facilMappCd":"user-kml-dec151519e6e","name":"꼬마열차","category":"experience","tags":[],"icon":"info","description":"","lng":128.0614409418579,"lat":36.65371839861816,"photo":null,"status":"unknown","hours":"","waitMinutes":null,"checkedAt":null},{"facilMappCd":"user-kml-d523453e98d2","name":"매표소","category":"amenity","tags":[],"icon":"info","description":"","lng":128.061339855,"lat":36.652666812,"photo":"photos/gate.jpg","status":"unknown","hours":"","waitMinutes":null,"checkedAt":null},{"facilMappCd":"user-kml-403a895ea92f","name":"가은모노레일","category":"experience","tags":[],"icon":"info","description":"","lng":128.0617512555226,"lat":36.65257312774869,"photo":null,"status":"unknown","hours":"","waitMinutes":null,"checkedAt":null},{"facilMappCd":"user-kml-d0fe5b8e8a77","name":"3세트장","category":"exhibition","tags":[],"icon":"info","description":"","lng":128.0663896754587,"lat":36.65550200289552,"photo":null,"status":"unknown","hours":"","waitMinutes":null,"checkedAt":null},{"facilMappCd":"user-kml-9cad01521fb8","name":"2세트장","category":"exhibition","tags":[],"icon":"info","description":"","lng":128.0675809920718,"lat":36.65611779266166,"photo":null,"status":"unknown","hours":"","waitMinutes":null,"checkedAt":null},{"facilMappCd":"user-kml-5d9f5429a19b","name":"거미열차","category":"experience","tags":[],"icon":"info","description":"","lng":128.0623648338047,"lat":36.65439432141314,"photo":null,"status":"unknown","hours":"","waitMinutes":null,"checkedAt":null},{"facilMappCd":"user-kml-51f5c900e686","name":"은성갱도 입구","category":"exhibition","tags":[],"icon":"info","description":"","lng":128.0620041880394,"lat":36.65465561334202,"photo":null,"status":"unknown","hours":"","waitMinutes":null,"checkedAt":null},{"facilMappCd":"user-kml-595aa6c82685","name":"문경석탄박물관","category":"exhibition","tags":[],"icon":"info","description":"","lng":128.0621942375294,"lat":36.65389074455849,"photo":"photos/museum.jpg","status":"unknown","hours":"","waitMinutes":null,"checkedAt":null},{"facilMappCd":"user-kml-fa6b8b565472","name":"에코타운 정문","category":"experience","tags":[],"icon":"info","description":"","lng":128.0599848864423,"lat":36.6544278797995,"photo":"photos/eco.jpg","status":"unknown","hours":"","waitMinutes":null,"checkedAt":null},{"facilMappCd":"user-kml-178f7c986a33","name":"에코카페 입구","category":"amenity","tags":["food"],"icon":"cafe","description":"","lng":128.0595224104233,"lat":36.65479706843798,"photo":null,"status":"unknown","hours":"","waitMinutes":null,"checkedAt":null},{"facilMappCd":"user-kml-098e71f832dd","name":"서바이벌체험장 입구","category":"experience","tags":[],"icon":"info","description":"","lng":128.0600450425438,"lat":36.65460585294915,"photo":null,"status":"unknown","hours":"","waitMinutes":null,"checkedAt":null},{"facilMappCd":"user-kml-1b5c60f82717","name":"탄광사택촌","category":"exhibition","tags":[],"icon":"info","description":"","lng":128.0613470629999,"lat":36.6540842541685,"photo":null,"status":"unknown","hours":"","waitMinutes":null,"checkedAt":null},{"facilMappCd":"user-kml-6e6cb1fed873","name":"수유실 · 석탄박물관","category":"amenity","tags":["nursing"],"icon":"nursing","description":"석탄박물관 로비 좌측에 위치하였습니다.","lng":128.0620749788497,"lat":36.6538624109573,"photo":"photos/museum.jpg","status":"unknown","hours":"","waitMinutes":null,"checkedAt":null},{"facilMappCd":"user-kml-0989fe6eb3f5","name":"수유실 · 에코타운","category":"amenity","tags":["nursing"],"icon":"nursing","description":"에코타운 로비에서 우측에 위치하고 있습니다.","lng":128.0598245331995,"lat":36.65472424871171,"photo":"photos/eco.jpg","status":"unknown","hours":"","waitMinutes":null,"checkedAt":null},{"facilMappCd":"user-kml-30dffae8c90d","name":"의무실","category":"safety","tags":[],"icon":"medical","description":"","lng":128.0598863180421,"lat":36.65354083751411,"photo":null,"status":"unknown","hours":"","waitMinutes":null,"checkedAt":null},{"facilMappCd":"user-kml-df9c8de9a37a","name":"화장실 1","category":"amenity","tags":["toilet"],"icon":"toilet","description":"","lng":128.0600715415836,"lat":36.65339124358076,"photo":null,"status":"unknown","hours":"","waitMinutes":null,"checkedAt":null},{"facilMappCd":"user-kml-55391809416e","name":"화장실 2","category":"amenity","tags":["toilet"],"icon":"toilet","description":"","lng":128.0615306031679,"lat":36.65228335482698,"photo":null,"status":"unknown","hours":"","waitMinutes":null,"checkedAt":null},{"facilMappCd":"user-kml-c1bcd1d4e831","name":"화장실 3","category":"amenity","tags":["toilet"],"icon":"toilet","description":"","lng":128.067162203233,"lat":36.65533446479465,"photo":null,"status":"unknown","hours":"","waitMinutes":null,"checkedAt":null},{"facilMappCd":"user-kml-8033748900e3","name":"화장실 4","category":"amenity","tags":["toilet"],"icon":"toilet","description":"","lng":128.0642364376776,"lat":36.65208208800899,"photo":null,"status":"unknown","hours":"","waitMinutes":null,"checkedAt":null},{"facilMappCd":"user-kml-4de8e1f19a1d","name":"화장실 5","category":"amenity","tags":["toilet"],"icon":"toilet","description":"","lng":128.0664117465305,"lat":36.65311640905166,"photo":null,"status":"unknown","hours":"","waitMinutes":null,"checkedAt":null},{"facilMappCd":"user-kml-dc2b8a2de74a","name":"은성갱도 출구","category":"exhibition","tags":[],"icon":"info","description":"","lng":128.0612702355016,"lat":36.65476628157572,"photo":null,"status":"unknown","hours":"","waitMinutes":null,"checkedAt":null},{"facilMappCd":"user-kml-e455d21352f8","name":"에코월드 야외주차장 1","category":"amenity","tags":["parking"],"icon":"parking","description":"","lng":128.0601764217287,"lat":36.6512397530704,"photo":null,"status":"unknown","hours":"","waitMinutes":null,"checkedAt":null},{"facilMappCd":"user-kml-8312a3471dd2","name":"에코월드 야외주차장 2","category":"amenity","tags":["parking"],"icon":"parking","description":"","lng":128.0595613047621,"lat":36.65343680014664,"photo":null,"status":"unknown","hours":"","waitMinutes":null,"checkedAt":null},{"facilMappCd":"user-kml-7e3590486010","name":"정문","category":"amenity","tags":[],"icon":"info","description":"","lng":128.061304516154,"lat":36.65271266091241,"photo":"photos/gate.jpg","status":"unknown","hours":"","waitMinutes":null,"checkedAt":null}]};

diff --git a/finder-demo/app.js b/finder-demo/app.js
@@ -11,6 +11,7 @@ const CONFIG = {
   walkMetersPerMin: 4000 / 60, straightFactor: 1.3,
   farFromParkM: 2000,
   fitMaxZoom: 17, detailZoom: 17.6,
+  coreMinZoom: 16.5,     // 이 줌 이상에서 고해상도 그림으로 바꾼다
   coreRadiusM: 200,      // 처음 화면에 담을 공원 중심부 반경
   pitch3d: 50,           // 입체 보기 기울기
   desktopMin: 900
@@ -246,6 +247,10 @@ function buildStyle() {
   if (pastel) {
     sources.pastel = { type: 'image', url: new URL(pastel.image, location.href).href, coordinates: pastel.coordinates };
     layers.push({ id: 'pastel', type: 'raster', source: 'pastel', paint: { 'raster-fade-duration': 0 } });
+    if (pastel.core) {  // 확대할 때 쓰는 공원 중심부 고해상도 그림
+      sources.pastelCore = { type: 'image', url: new URL(pastel.core.image, location.href).href, coordinates: pastel.core.coordinates };
+      layers.push({ id: 'pastel-core', type: 'raster', source: 'pastelCore', minzoom: CONFIG.coreMinZoom, paint: { 'raster-fade-duration': 0 } });
+    }
   }
   const kind = k => ['==', ['get', 'kind'], k];
   const isModel = ['==', ['get', 'model'], true];
@@ -289,7 +294,16 @@ function landmarkLayer() {
           scene.add(new THREE.AmbientLight('#ffffff', 1.9));
           const sun = new THREE.DirectionalLight('#fff3d6', 1.7), az = (210 - r[2] * 180 / Math.PI) * Math.PI / 180, po = 35 * Math.PI / 180;
           sun.position.set(Math.sin(az) * Math.sin(po), Math.cos(po), -Math.cos(az) * Math.sin(po)); scene.add(sun);
-          loader.load(cfg.url, g => { scene.add(g.scene); this.items.push({ scene, matrix }); m.triggerRepaint(); },
+          loader.load(cfg.url, g => {
+            // 모델의 회색을 지도와 같은 파스텔 톤으로 밝힌다.
+            const warm = new THREE.Color('#fff1e0'), seen = new Set();
+            g.scene.traverse(n => {
+              for (const mat of Array.isArray(n.material) ? n.material : n.material ? [n.material] : []) {
+                if (seen.has(mat) || !mat.color) continue;
+                seen.add(mat); mat.color.lerp(warm, 0.5); if ('roughness' in mat) mat.roughness = 1; if ('metalness' in mat) mat.metalness = 0;
+              }
+            });
+            scene.add(g.scene); this.items.push({ scene, matrix }); m.triggerRepaint(); },
             undefined, () => console.warn(`3D 모델을 불러오지 못했어요: ${cfg.name}`));
         }
       }).catch(() => console.warn('3D 렌더러를 준비하지 못해 평면 지도로 표시합니다.'));

diff --git a/finder-demo/index.html b/finder-demo/index.html
@@ -6,7 +6,7 @@
 <meta name="theme-color" content="#12675e">
 <title>에코월드 시설 지도</title>
 <link rel="stylesheet" href="https://cdn.jsdelivr.net/npm/maplibre-gl@6.15.0/dist/maplibre-gl.css">
-<link rel="stylesheet" href="app.css?v=20261101i">
+<link rel="stylesheet" href="app.css?v=20261101k">
 </head>
 <body>
 <div id="app">
@@ -127,12 +127,12 @@
   </dialog>
 </div>
 
-<script src="data/facilities.js?v=20261101i"></script>
-<script src="data/park.js?v=20261101i"></script>
-<script src="data/basemap.js?v=20261101i"></script>
-<script src="data/landmarks.js?v=20261101i"></script>
-<script src="data/pastel-map.js?v=20261101i"></script>
+<script src="data/facilities.js?v=20261101k"></script>
+<script src="data/park.js?v=20261101k"></script>
+<script src="data/basemap.js?v=20261101k"></script>
+<script src="data/landmarks.js?v=20261101k"></script>
+<script src="data/pastel-map.js?v=20261101k"></script>
 <script type="importmap">{"imports":{"three":"https://cdn.jsdelivr.net/npm/three@0.186.1/build/three.module.js","three/addons/":"https://cdn.jsdelivr.net/npm/three@0.186.1/examples/jsm/"}}</script>
-<script type="module" src="app.js?v=20261101i"></script>
+<script type="module" src="app.js?v=20261101k"></script>
 </body>
 </html>

diff --git a/finder-demo/data/pastel-map.js b/finder-demo/data/pastel-map.js
@@ -1,1 +1,1 @@
-window.ECO_PASTEL={"image": "data/pastel-map.webp", "coordinates": [[128.05526733398438, 36.65960622647969], [128.07174682617188, 36.65960622647969], [128.07174682617188, 36.64803803642877], [128.05526733398438, 36.64803803642877]]};
+window.ECO_PASTEL={"image": "data/pastel-map.webp", "coordinates": [[128.05526733398438, 36.65960622647969], [128.07174682617188, 36.65960622647969], [128.07174682617188, 36.64803803642877], [128.05526733398438, 36.64803803642877]], "core": {"image": "data/pastel-core.webp", "coordinates": [[128.05799782276154, 36.656600299590146], [128.0689975619316, 36.656600299590146], [128.0689975619316, 36.65050201721211], [128.05799782276154, 36.65050201721211]]}};
